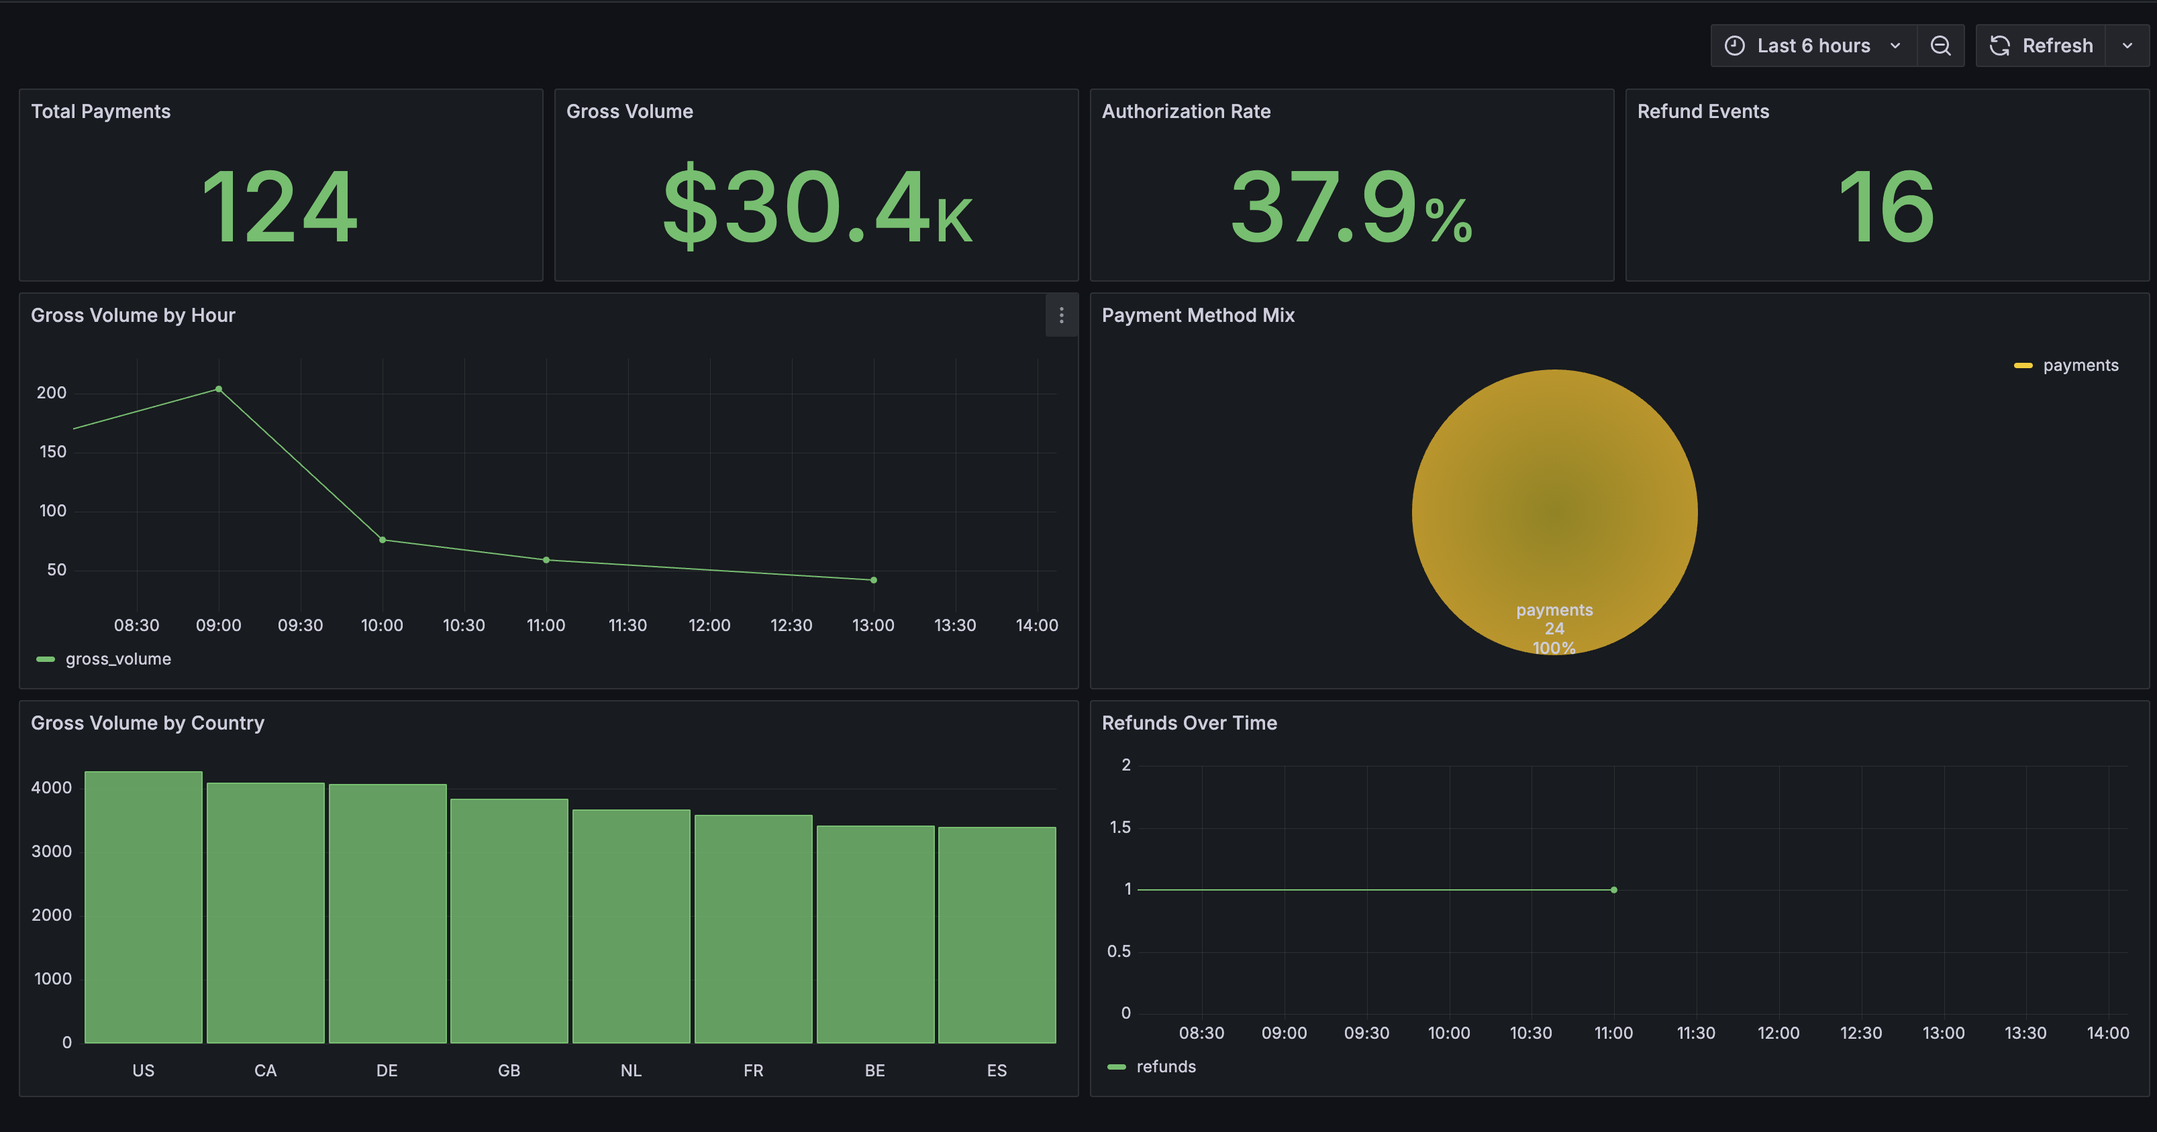
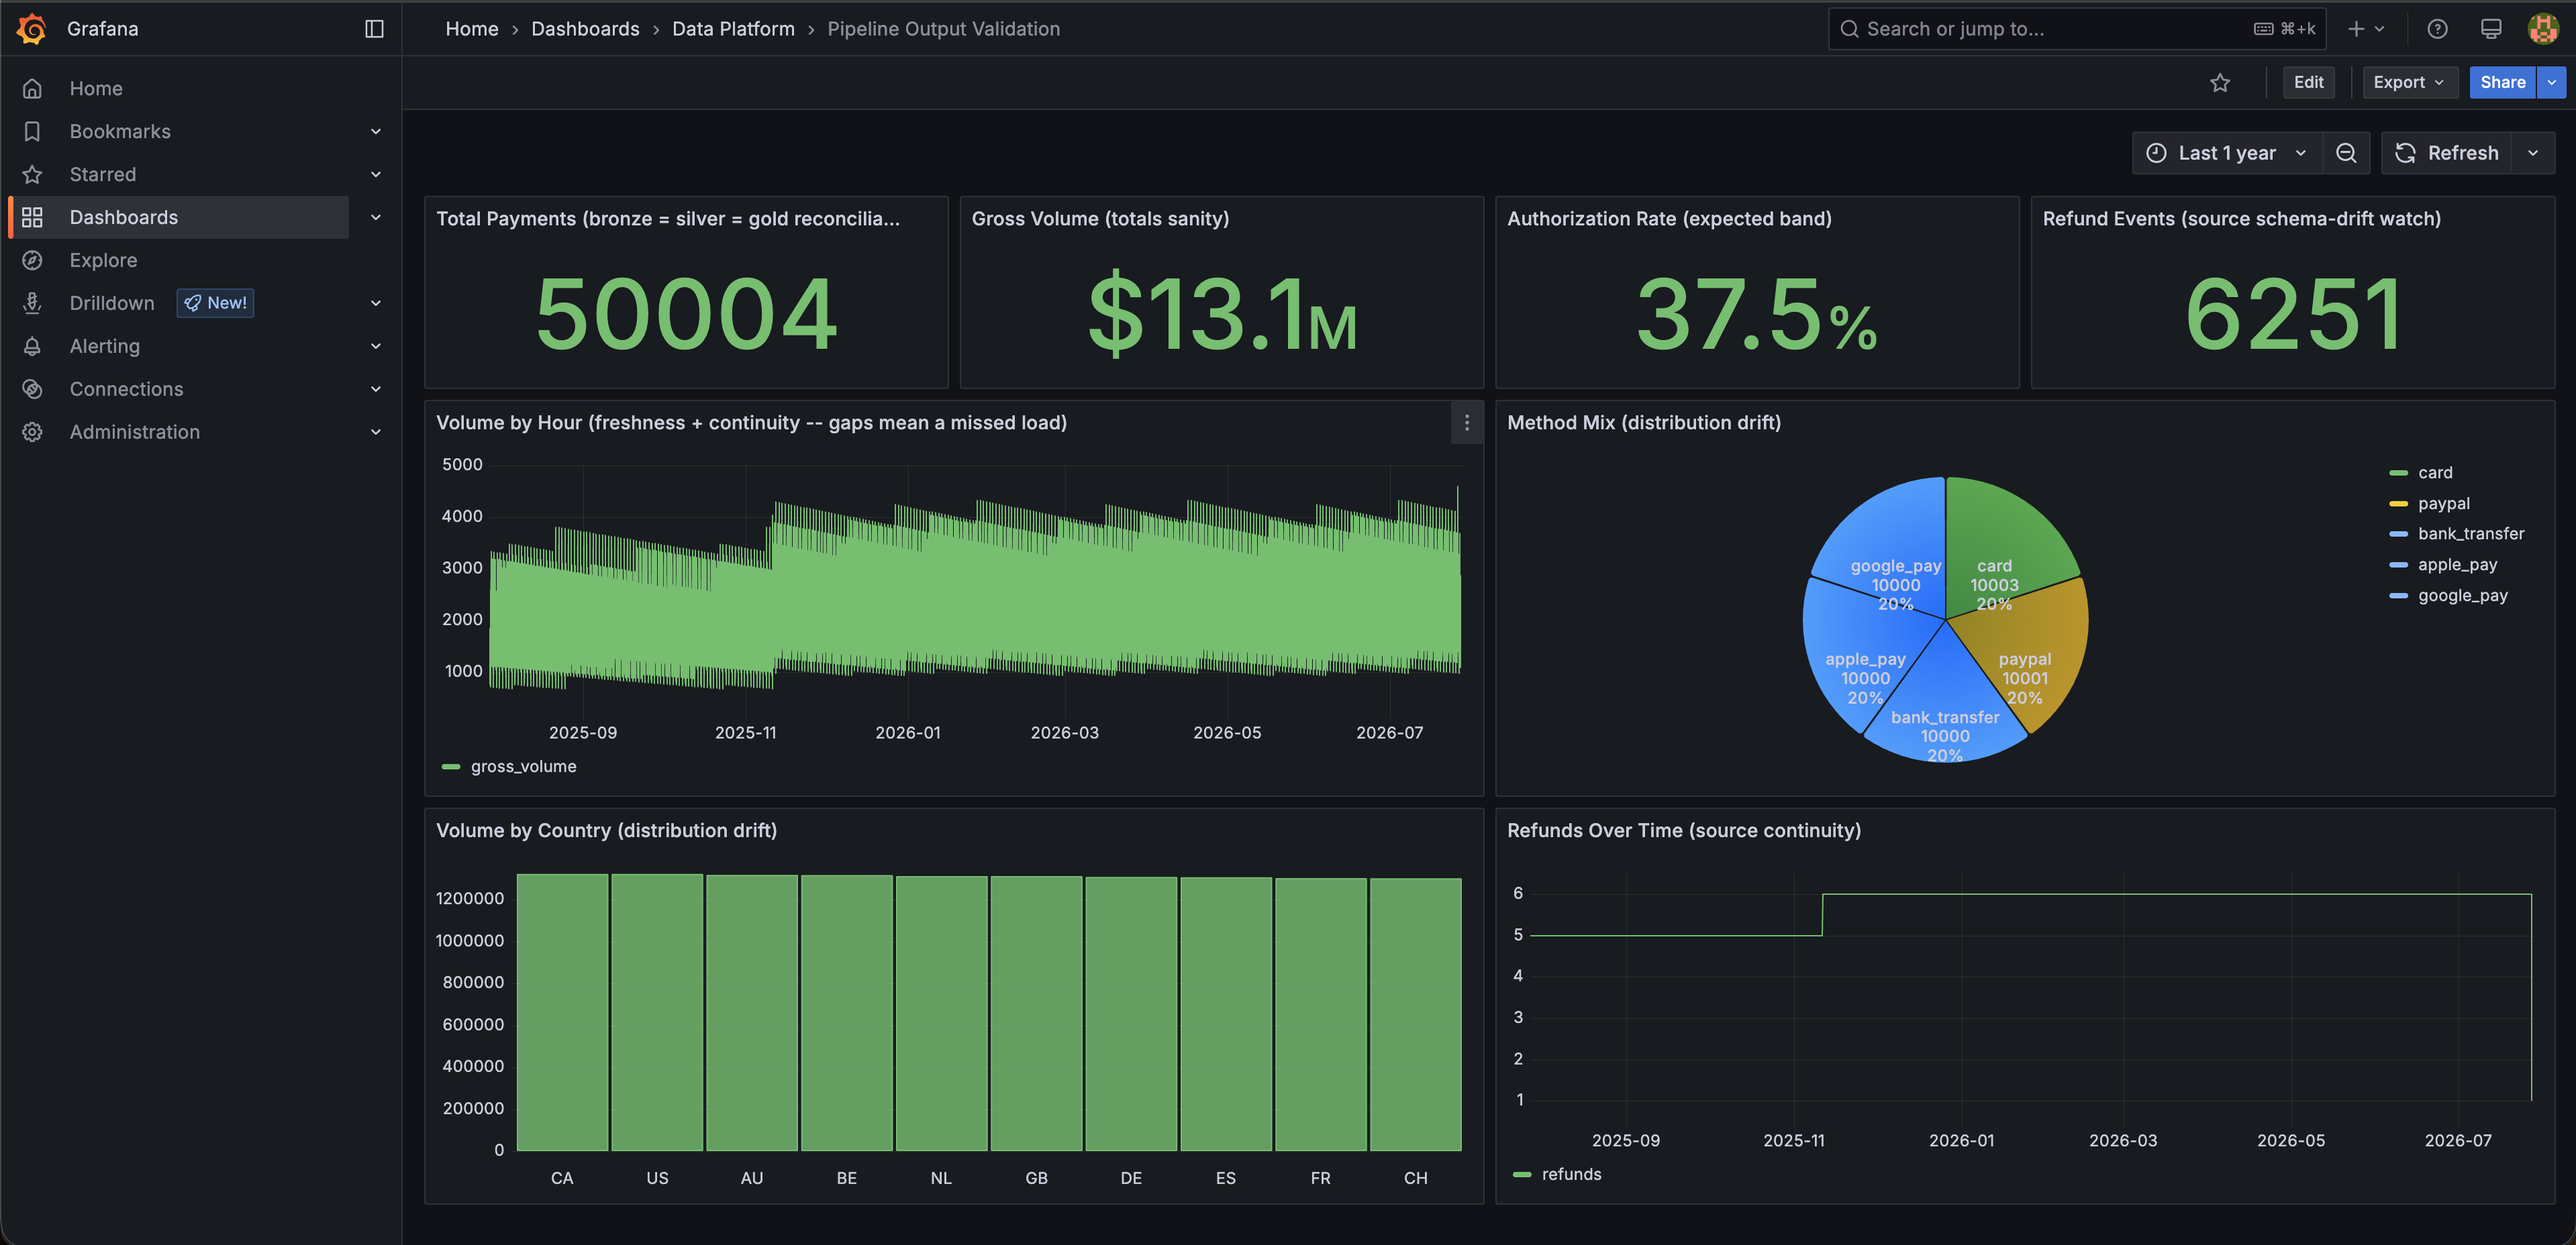
Fix the method-mix piechart and refresh its screenshot
The panel rendered a single slice labelled "payments" -- the column alias --
rather than a breakdown by payment method. The query was right; the panel
was reading it wrong. reduceOptions.values was false, which makes a piechart
reduce each field to one number instead of drawing one slice per row, so a
GROUP BY collapsed to a single wedge.

The screenshot was also two changes stale: it predated both the rename to
Pipeline Output Validation and the panel retitling that states what each one
validates.

diff --git a/tests/test_pipeline_runtime.py b/tests/test_pipeline_runtime.py
@@ -995,6 +995,23 @@ def test_dashboard_datasource_uids_are_provisioned() -> None:
     assert not dangling, f"dashboard references unprovisioned datasource uids: {dangling}"
 
 
+def test_piecharts_render_one_slice_per_row() -> None:
+    """A GROUP BY query needs `reduceOptions.values = true` on a piechart.
+
+    With `values: false` Grafana reduces each *field* to a single number instead of rendering one
+    slice per *row*, so a breakdown by payment_method collapsed to one slice labelled `payments`
+    -- the column alias. The query was right; the panel was reading it wrong.
+    """
+    dashboard_path, _ = _grafana_paths()
+    dashboard = json.loads(dashboard_path.read_text())
+
+    piecharts = [p for p in dashboard["panels"] if p["type"] == "piechart"]
+    assert piecharts, "expected at least one piechart"
+    for panel in piecharts:
+        options = panel["options"]["reduceOptions"]
+        assert options.get("values") is True, panel["title"]
+
+
 def test_payment_aggregate_panels_read_gold_via_trino() -> None:
     dashboard_path, _ = _grafana_paths()
     dashboard = json.loads(dashboard_path.read_text())
